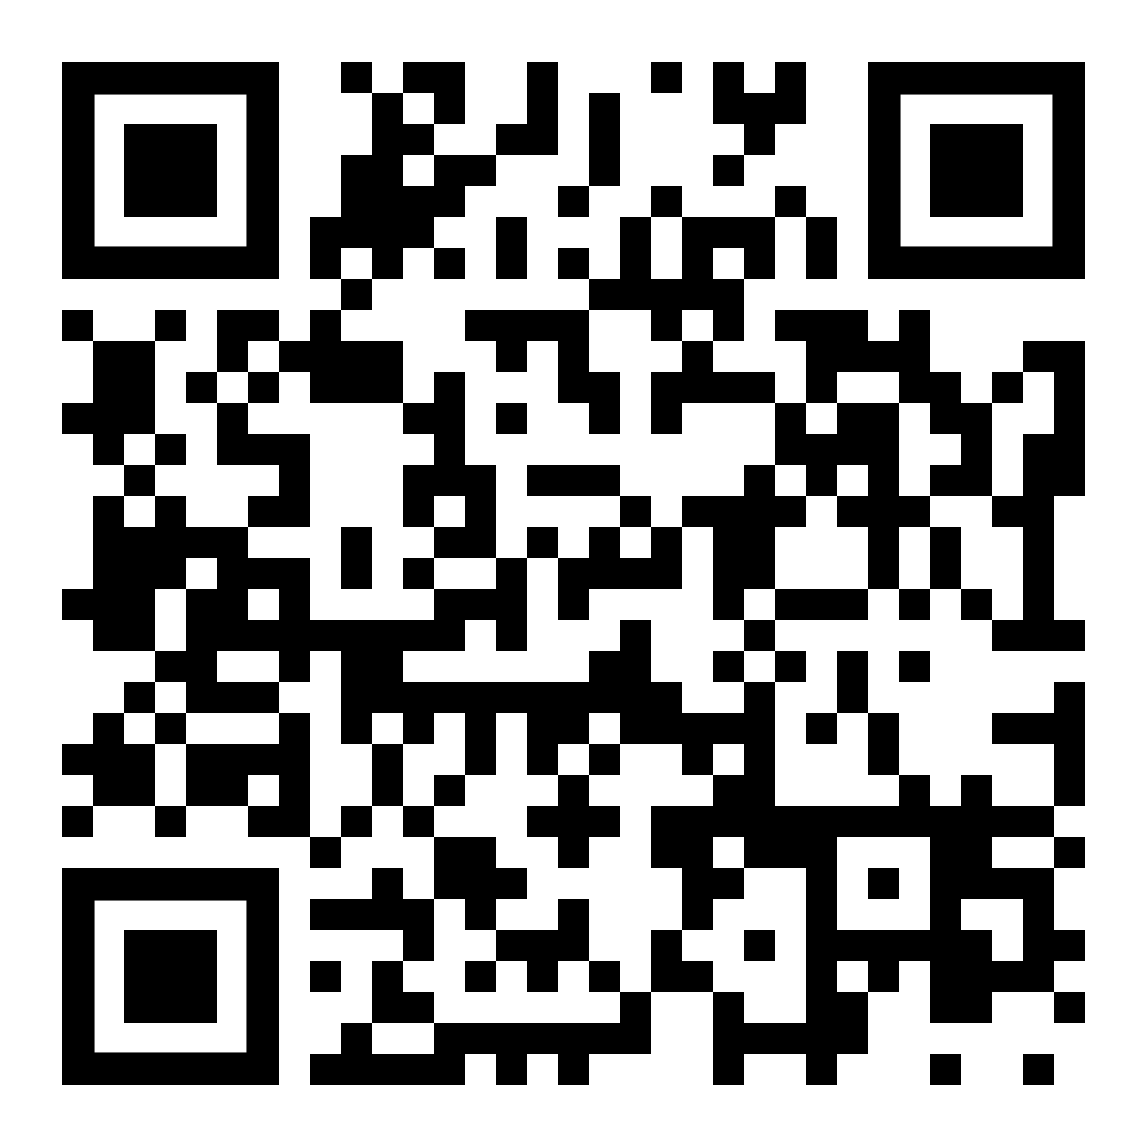
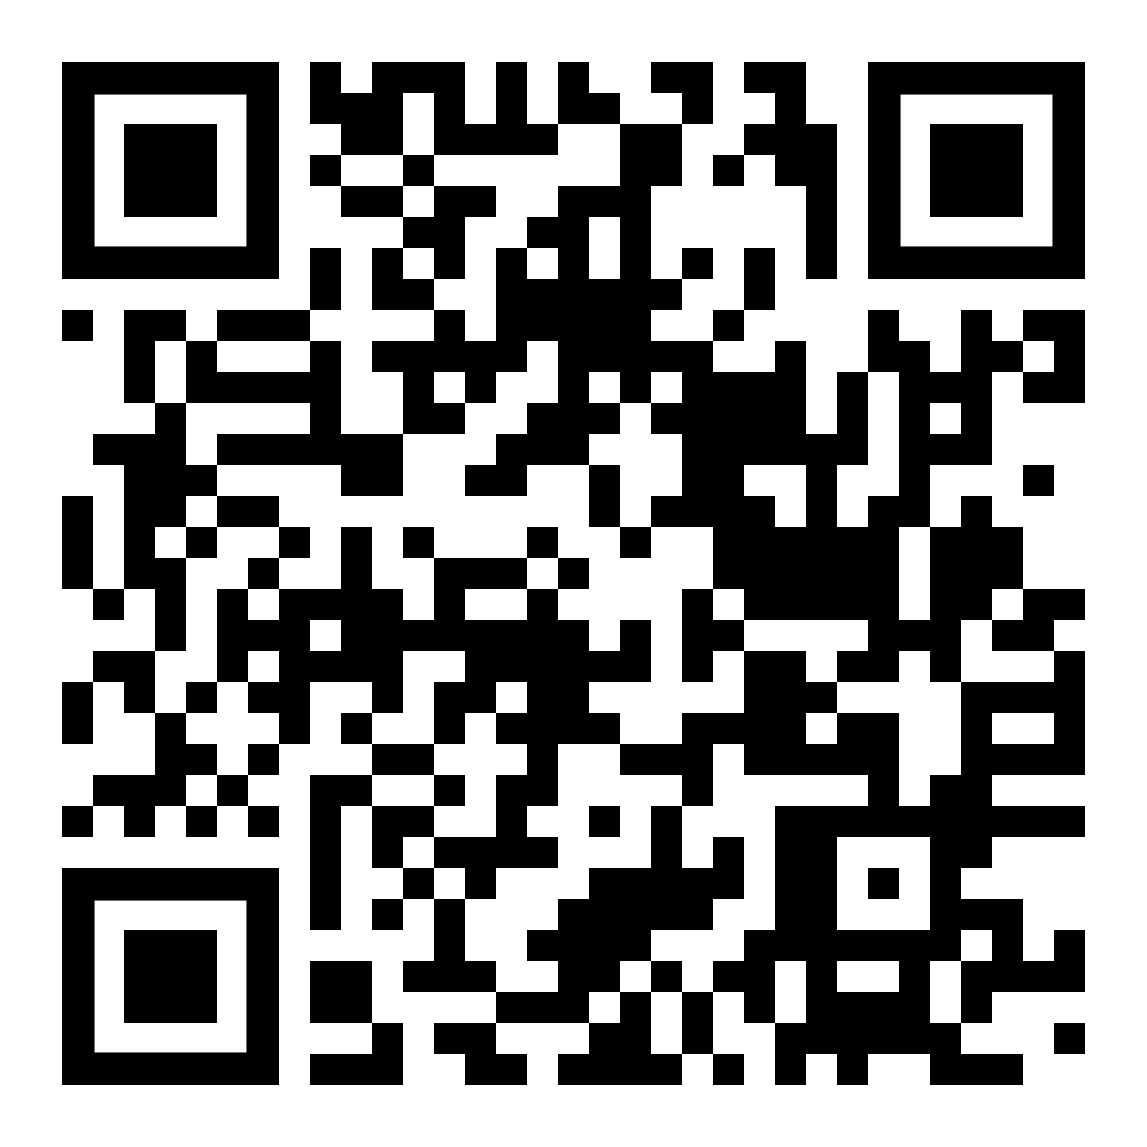
Add files via upload

diff --git a/index.html b/index.html
@@ -515,7 +515,7 @@ Diskr.freie Sprache analog zum rass./sex. Blick
 				<section data-state="hide-menubar hide-menu">
 									
 					<h3><u>Vielen Dank für die Aufmerksamkeit</u></h3>
-						<p>https://griznuke.github.io/sozphean_politisch</p>
+						<p>https://griznuke.github.io/sozphaen_politisch</p>
 					<figure>
 						<img src="images/qr-code.png" alt="QRcode" style="height: 320px; background: transparent;"/>
 					</figure>
